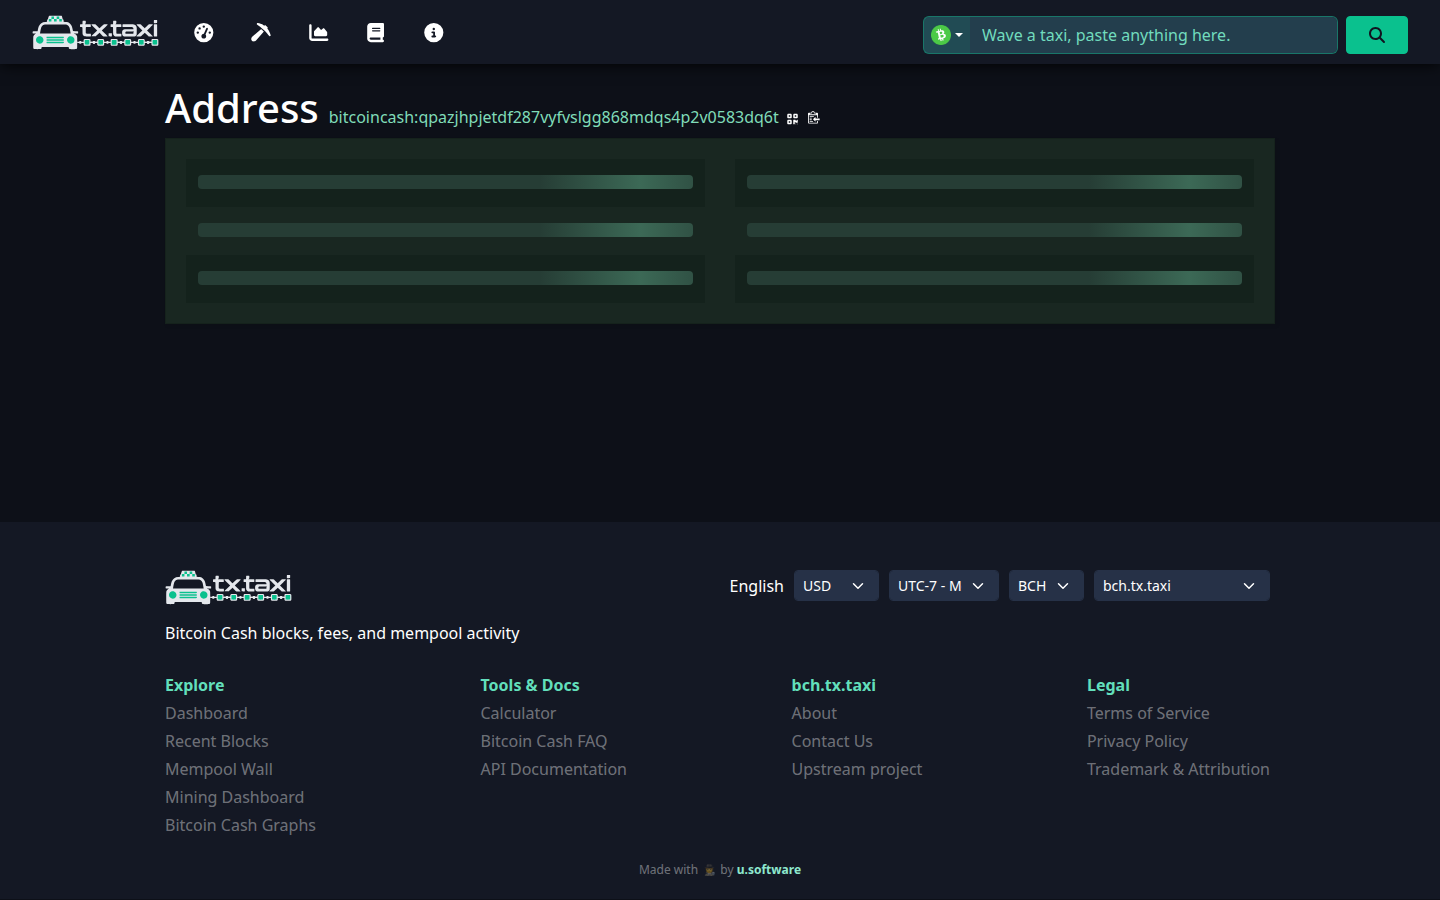
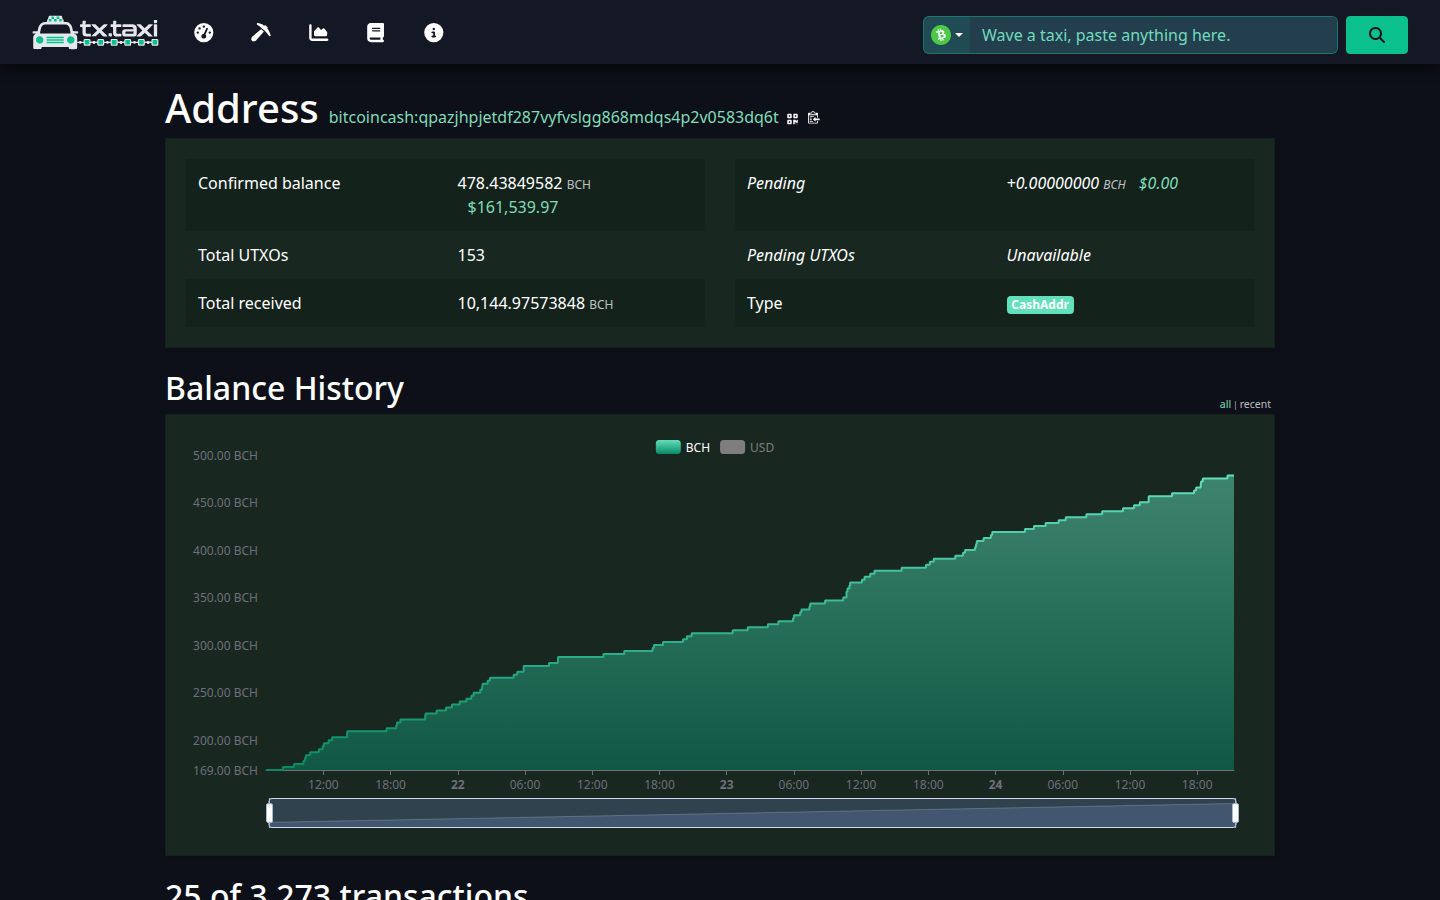
Record settled BCH address copy screenshots

diff --git a/review/copy-cleanup/README.md b/review/copy-cleanup/README.md
@@ -7,3 +7,5 @@ Compared with current `ltc-dropdown-release` dashboard and existing native chart
 Angular watch compiled successfully (bf748aa3e7d093c9,2026-09-25 04:15UTC), followed by the small About prose cleanup. Desktop1440/mobile390 actual dashboard/mining/address/About screenshots were opened and inspected; native titles fit and the pending block no longer displays the timing annotation. results.json records zero page errors and no sampled implementation-note strings. about-results.json is the final About wording follow-up. Existing provider scope and limitations remain in earlier capability/review evidence, not treated as fixed by copy removal.
 
 Changed strip inputs: mempool-blocks.component.html and blockchain-blocks.component.html. Integrator notified to rebuild local BCH hub export from these sources. No engine regeneration, new UI, data changes, deployment or push. Gateway4361/watch4360 remain running.
+
+Address captures replaced after explicitly waiting for the rendered Balance History heading; both desktop/mobile settled screenshots opened and show the native heading without the former sampling note. address-results.json records the bounded follow-up. No source changes after b2b2b0c21.
